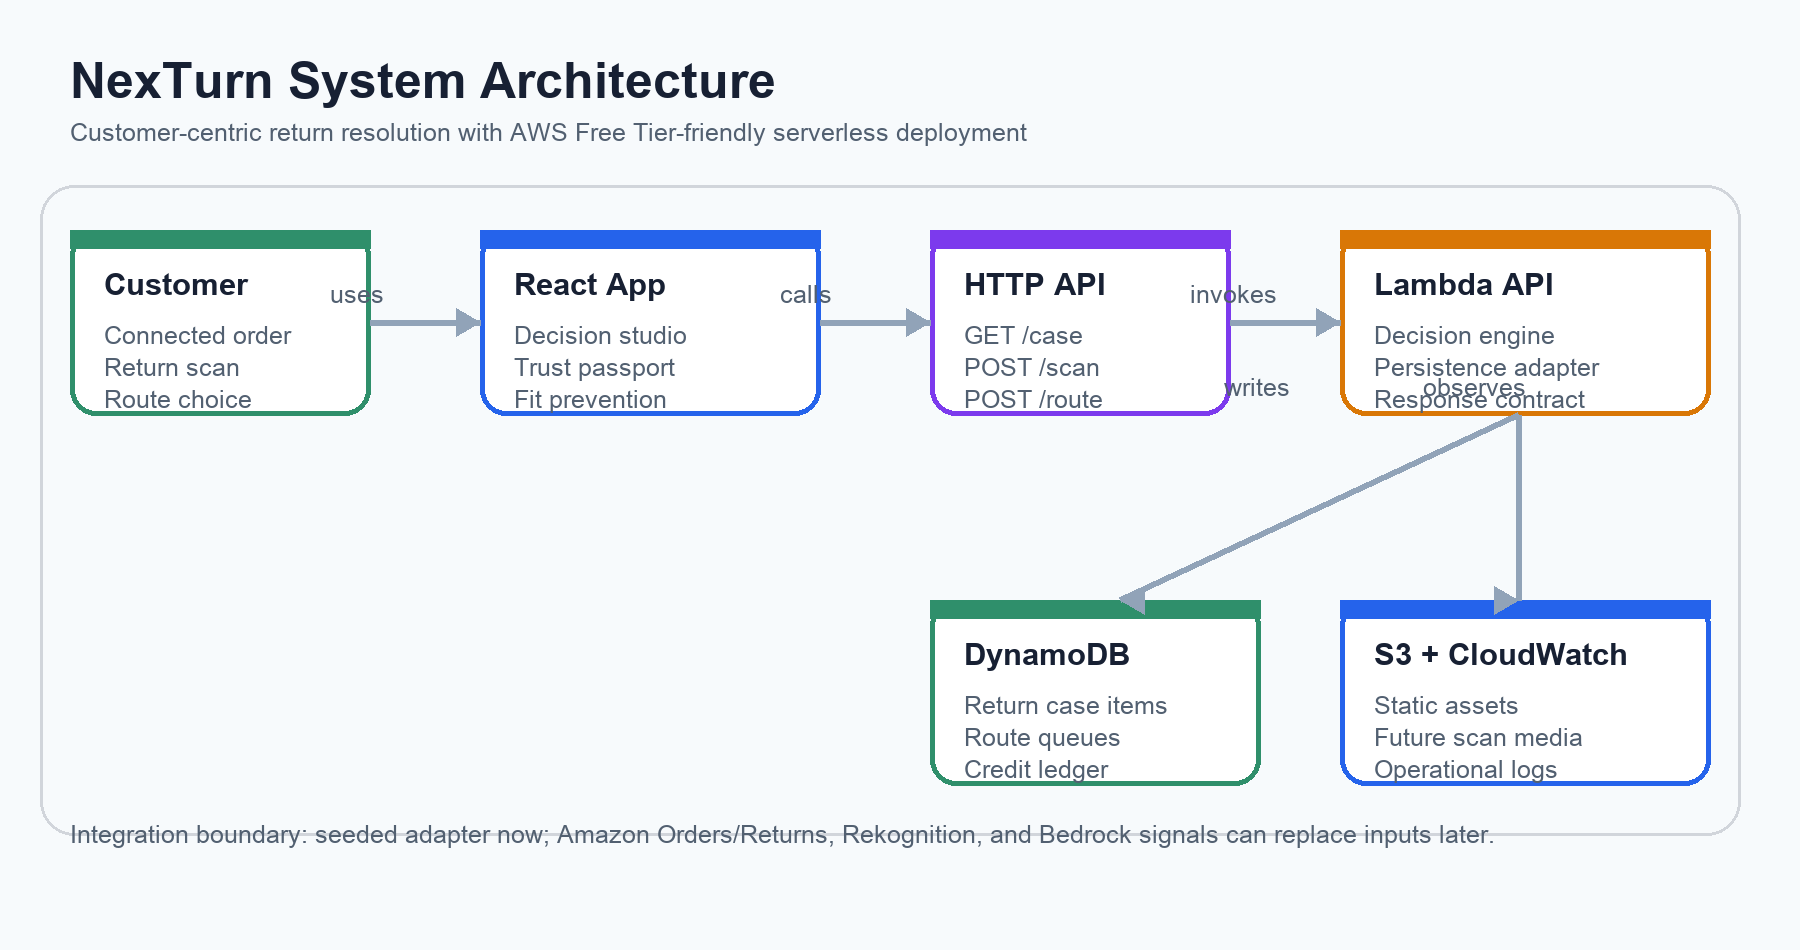
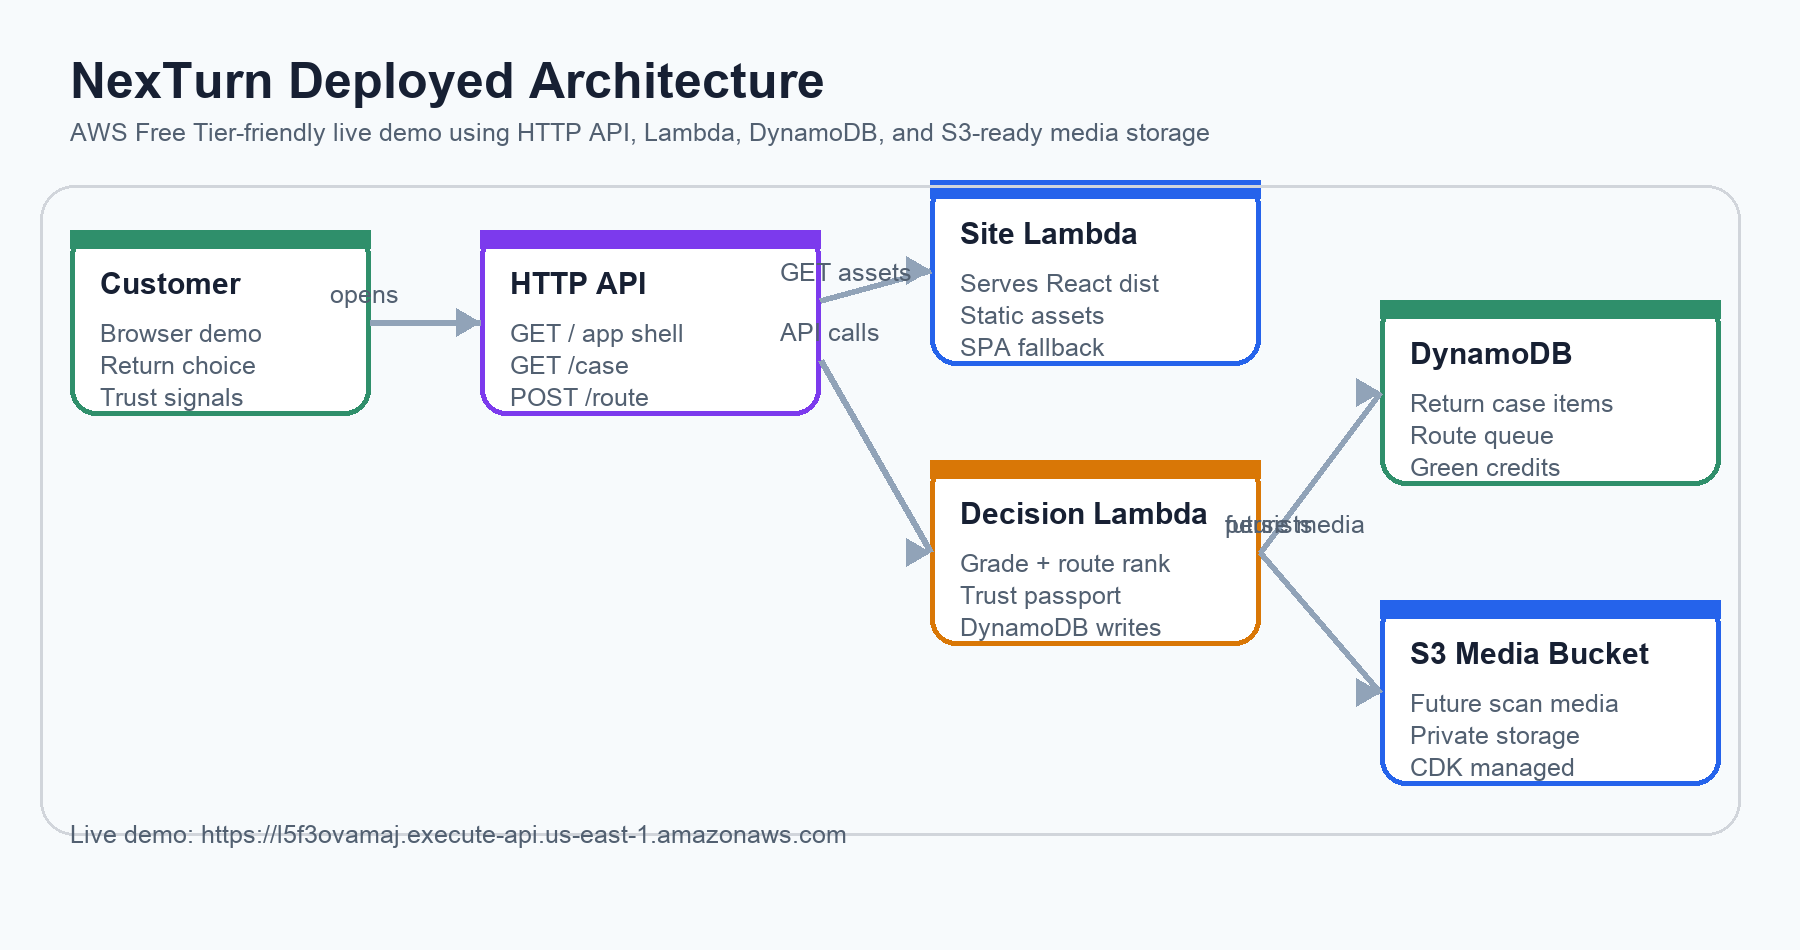
docs: add live AWS deployment link

diff --git a/README.md b/README.md
@@ -52,6 +52,10 @@ npm run dev
 
 Open `http://127.0.0.1:5173/`.
 
+## Live AWS Demo
+
+https://l5f3ovamaj.execute-api.us-east-1.amazonaws.com
+
 ## Verification
 
 ```bash

diff --git a/docs/submission/solution-draft.md b/docs/submission/solution-draft.md
@@ -62,7 +62,7 @@ Demo evidence:
 | Backend | AWS Lambda + HTTP API | Low-cost serverless API for return decisions |
 | Data | DynamoDB | Low-latency item collections for return case workflows |
 | Infra | AWS CDK | Repeatable deployment in `us-east-1` |
-| Assets | S3-ready static build | Durable hosting path for frontend and future media uploads |
+| Assets | HTTP API static-site Lambda + S3-ready media bucket | Live AWS demo without CloudFront account verification |
 
 ## Key Algorithms
 
@@ -102,5 +102,5 @@ marketplace scale.
 ## Links
 
 - GitHub: `https://github.com/AKSHATSPAR/nexturn`
-- Live app: pending deployment
+- Live app: `https://l5f3ovamaj.execute-api.us-east-1.amazonaws.com`
 - Demo video: pending recording